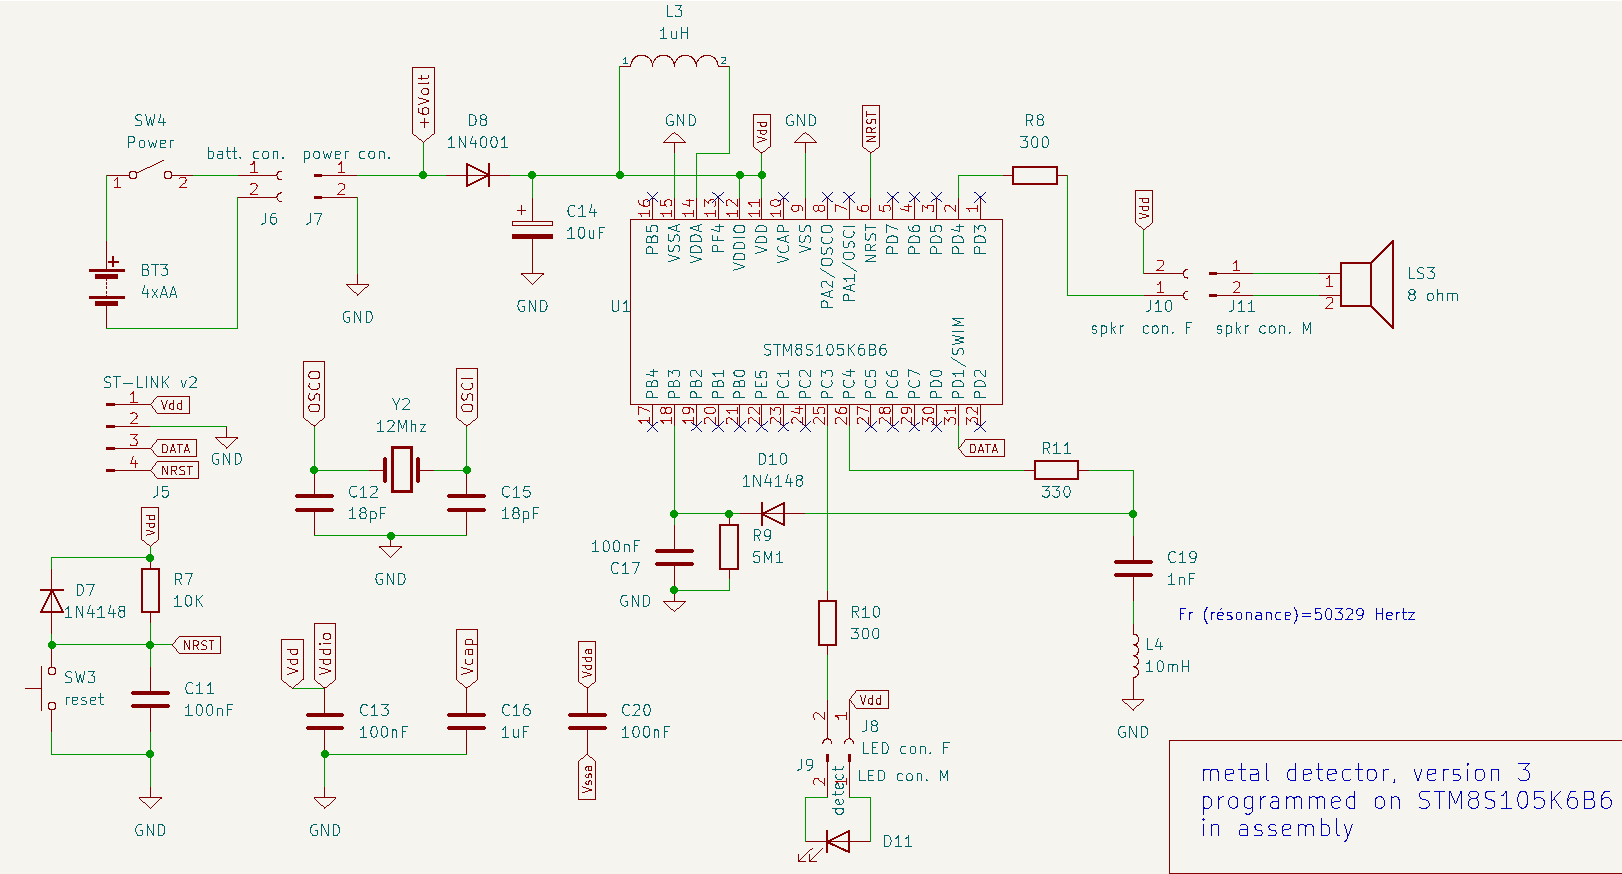
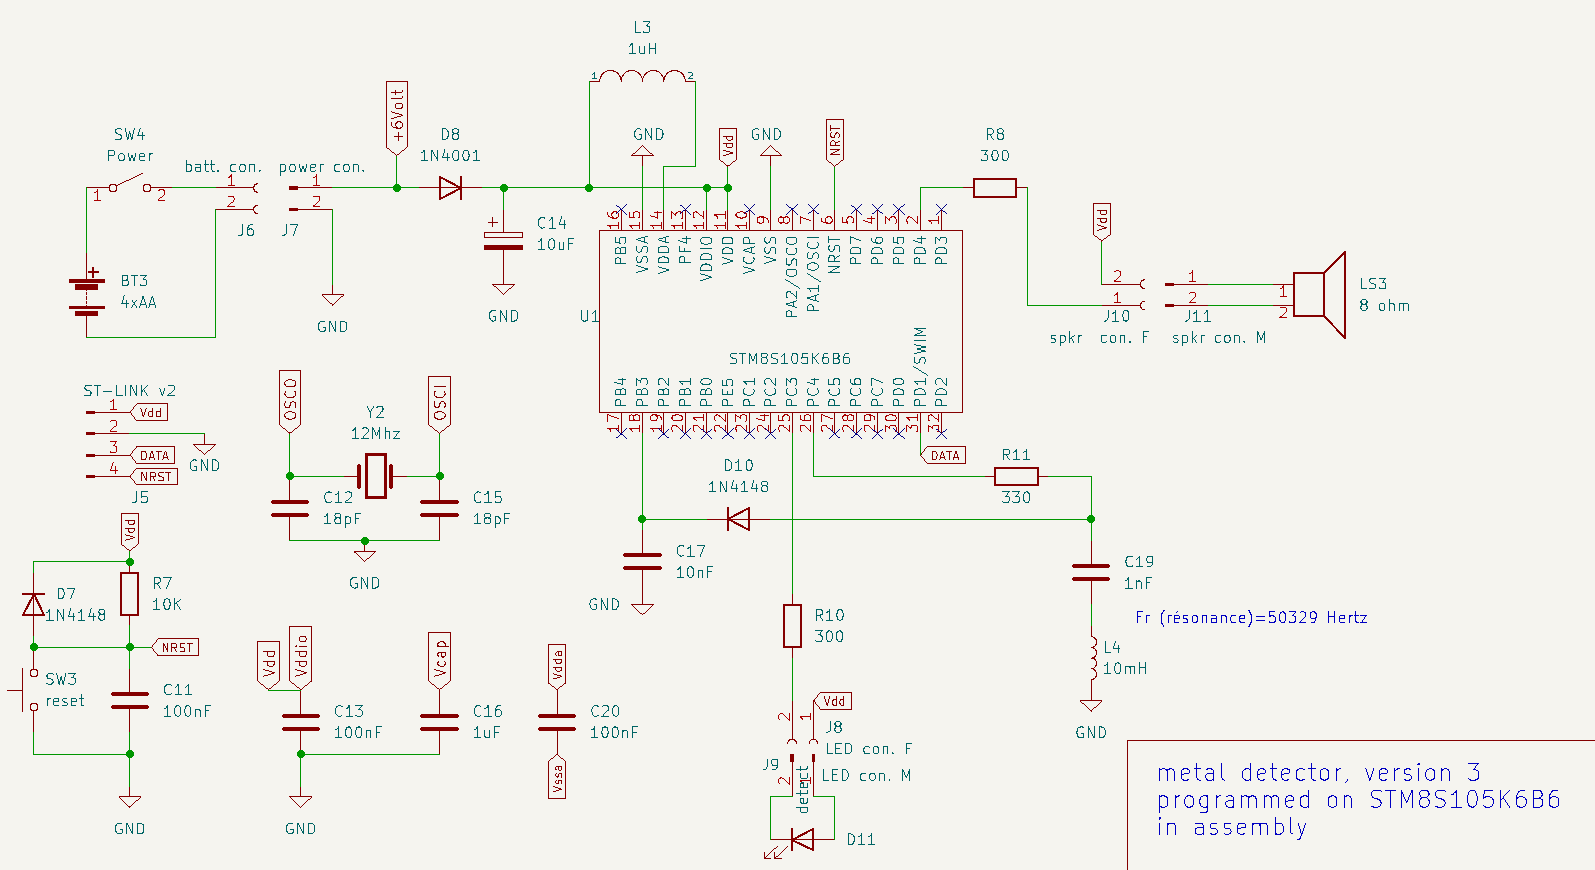
Mise à jour documentation pour bare-metal

diff --git a/readme.md b/readme.md
@@ -27,6 +27,11 @@ When a metal object come close to **L1** it modify the inductance then **C6-L1**
 **L1** is a commercial inductor wound on a ferrite core. 
 
 ## Revisions 
+### version 3 
+
+Bare metal programming in assembly on STM8S105K6B6. 
+
+![bare-metal/bare-metal-schematic.png](bare-metal/bare-metal-schematic.png)
 
 ### Version 2 
 
